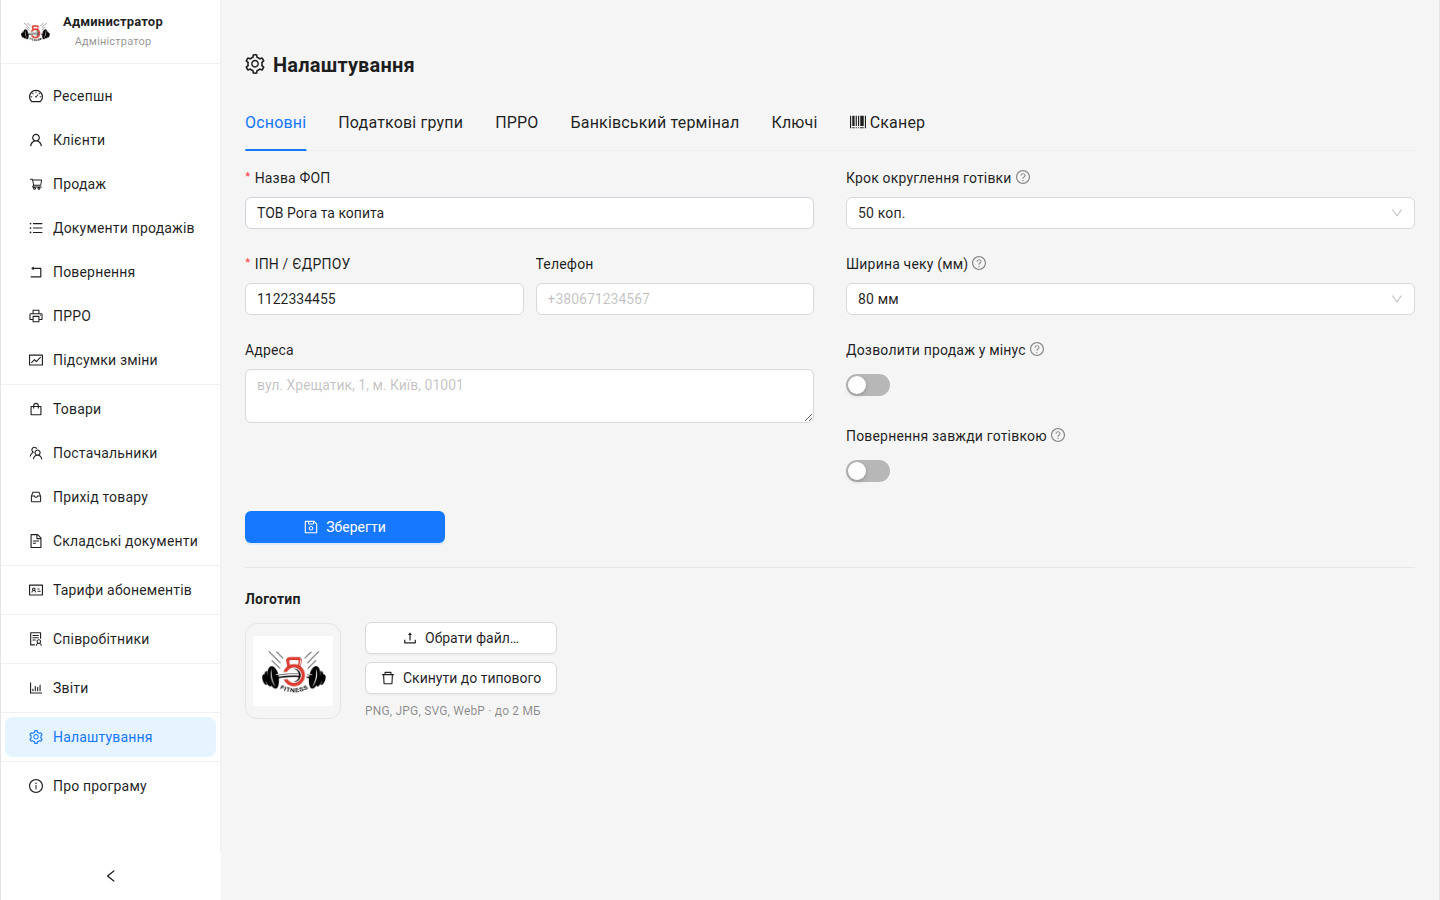
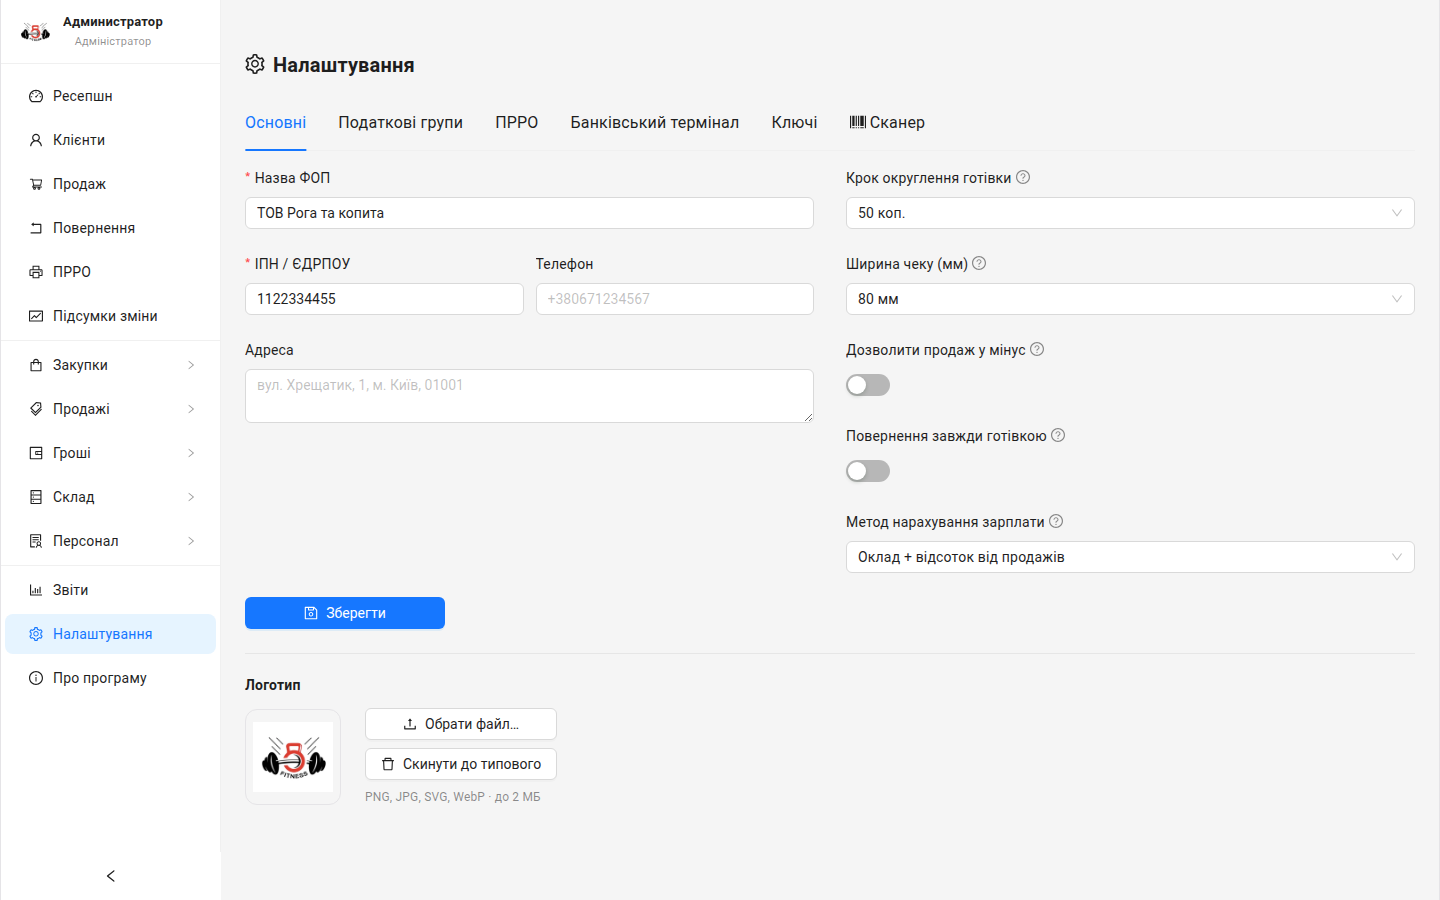
docs: розділ «Розрахунок зарплати» + оновлені скріншоти
Синхронізовано з основним репозиторієм: додано Блок 23 «Розрахунок
зарплати», Налаштування перенумеровано в Блок 24, оновлено зміст,
внутрішні посилання та скріншоти.

diff --git a/index.html b/index.html
@@ -107,7 +107,8 @@
 <li><a href="#блок-20-складські-документи-інвентаризація--списання">Блок 20. Складські документи (інвентаризація / списання)</a></li>
 <li><a href="#блок-21-тарифи-абонементів">Блок 21. Тарифи абонементів</a></li>
 <li><a href="#блок-22-співробітники">Блок 22. Співробітники</a></li>
-<li><a href="#блок-23-налаштування">Блок 23. Налаштування</a></li>
+<li><a href="#блок-23-розрахунок-зарплати">Блок 23. Розрахунок зарплати</a></li>
+<li><a href="#блок-24-налаштування">Блок 24. Налаштування</a></li>
 </ul>
 <p><strong>Довідка</strong></p>
 <ul>
@@ -414,7 +415,7 @@
 <p>Угорі — картка <strong>«Стан ПРРО»</strong>: підключення до каси, чи відкрита зміна, тривалість, фіскальний номер, ФОП.</p>
 <p>Дії (виберіть касу, якщо їх кілька):</p>
 <ul>
-<li><strong>«Відкрити зміну»</strong> — на початку робочого дня, перед фіскальними чеками. При відкритті <strong>автоматично виконується внесення суми</strong>, заданої в налаштуваннях каси (<strong>«Авто-внесення при відкритті зміни»</strong>, розділ <a href="#блок-23-налаштування">«Налаштування» → вкладка «ПРРО»</a>). Якщо поле порожнє — внесення не робиться.</li>
+<li><strong>«Відкрити зміну»</strong> — на початку робочого дня, перед фіскальними чеками. При відкритті <strong>автоматично виконується внесення суми</strong>, заданої в налаштуваннях каси (<strong>«Авто-внесення при відкритті зміни»</strong>, розділ <a href="#блок-24-налаштування">«Налаштування» → вкладка «ПРРО»</a>). Якщо поле порожнє — внесення не робиться.</li>
 <li><strong>«X-звіт»</strong> — проміжний звіт без закриття зміни (перевірка стану каси).</li>
 <li><strong>«Z-звіт / Закрити зміну»</strong> — у кінці дня; закриває зміну, скасувати неможливо. Підтвердіть дію. Якщо в налаштуваннях увімкнено <strong>«Авто-виємка перед закриттям зміни»</strong>, перед закриттям автоматично виконається виємка всієї готівки з ПРРО.</li>
 </ul>
@@ -524,12 +525,67 @@
 <p>Неактивний співробітник не може увійти в систему.</p>
 </blockquote>
 <hr>
-<h2 id="блок-23-налаштування">Блок 23. Налаштування</h2>
+<h2 id="блок-23-розрахунок-зарплати">Блок 23. Розрахунок зарплати</h2>
+<p><strong>Розділ:</strong> «Персонал» → «Розрахунок зарплати» <em>(адміністратор)</em>.</p>
+<p>Модуль рахує зарплату співробітників за обраний період <strong>на сервері</strong> за поточним методом нарахування. Метод — спільний для всього закладу і задається в <a href="#блок-24-налаштування">Налаштуваннях</a>; а конкретні ставки (оклад, відсотки) задаються <strong>індивідуально кожному співробітнику</strong>.</p>
+<p><strong>Методи нарахування:</strong></p>
+<table>
+<thead>
+<tr>
+<th>Метод</th>
+<th>Як рахується</th>
+</tr>
+</thead>
+<tbody><tr>
+<td><strong>Оклад</strong></td>
+<td>Фіксована сума за період.</td>
+</tr>
+<tr>
+<td><strong>Відсоток від продажів</strong></td>
+<td>Відсоток від особистих продажів співробітника за період.</td>
+</tr>
+<tr>
+<td><strong>Відсоток за групами товарів + абонементи</strong></td>
+<td>Свій відсоток за кожною групою товарів плюс окремий відсоток за продані абонементи.</td>
+</tr>
+<tr>
+<td><strong>Оклад + відсоток від продажів</strong></td>
+<td>Фіксований оклад плюс відсоток від особистих продажів.</td>
+</tr>
+</tbody></table>
+<h3 id="вкладка-розрахунок">Вкладка «Розрахунок»</h3>
+<p><img src="screenshots/22-payroll-calc.png" alt="Розрахунок зарплати за період"></p>
+<ul>
+<li>Оберіть <strong>період</strong> (за замовчуванням — з початку місяця до сьогодні). Розрахунок виконується автоматично.</li>
+<li>Праворуч від періоду показано <strong>поточний метод</strong> нарахування.</li>
+<li>Картки згори — <strong>разом до нарахування</strong> за період і <strong>кількість співробітників</strong>.</li>
+<li>Таблиця показує рядок на кожного співробітника; склад колонок залежить від методу (оклад, продажі, відсоток, нараховано тощо), останній рядок — <strong>«Разом»</strong>.</li>
+</ul>
+<h3 id="вкладка-параметри-співробітників">Вкладка «Параметри співробітників»</h3>
+<p><img src="screenshots/23-payroll-params.png" alt="Параметри співробітників"></p>
+<ul>
+<li>Показує ставки кожного співробітника відповідно до поточного методу.</li>
+<li>Синій напис угорі нагадує, який метод діє і що змінити його можна в Налаштуваннях.</li>
+<li>Натисніть <strong>«Змінити»</strong> у рядку співробітника, щоб відкрити панель редагування:</li>
+</ul>
+<p><img src="screenshots/24-payroll-params-edit.png" alt="Редагування параметрів співробітника"></p>
+<p>Поля панелі залежать від методу:</p>
+<ul>
+<li><strong>Оклад (грн за період)</strong> — для методів «Оклад» та «Оклад + відсоток».</li>
+<li><strong>Відсоток від особистих продажів, %</strong> — для методів «Відсоток від продажів» та «Оклад + відсоток».</li>
+<li><strong>Відсоток за абонементи, %</strong> та <strong>ставки за групами товарів</strong> — для методу «Відсоток за групами товарів + абонементи».</li>
+</ul>
+<p>Натисніть <strong>«Зберегти»</strong>, щоб застосувати зміни.</p>
+<blockquote>
+<p>Ставки задаються окремо кожному співробітнику, тому двоє людей на одному методі можуть мати різні оклад і відсотки.</p>
+</blockquote>
+<hr>
+<h2 id="блок-24-налаштування">Блок 24. Налаштування</h2>
 <p><strong>Розділ:</strong> «Налаштування» <em>(адміністратор)</em>.</p>
 <p><img src="screenshots/18-settings.png" alt="Екран «Налаштування»"></p>
 <p>Вкладки:</p>
 <ul>
-<li><strong>Основні</strong> — дані ФОП (назва, ІПН/ЄДРПОУ, телефон, адреса), <strong>крок округлення готівки</strong> (10/50 коп.), <strong>ширина чеку</strong> (58/80 мм), <strong>дозволити продаж у мінус</strong>, <strong>повернення завжди готівкою</strong>, типова податкова група.</li>
+<li><strong>Основні</strong> — дані ФОП (назва, ІПН/ЄДРПОУ, телефон, адреса), <strong>крок округлення готівки</strong> (10/50 коп.), <strong>ширина чеку</strong> (58/80 мм), <strong>дозволити продаж у мінус</strong>, <strong>повернення завжди готівкою</strong>, <strong>метод нарахування зарплати</strong> (спільний для закладу — див. <a href="#блок-23-розрахунок-зарплати">Блок 23. Розрахунок зарплати</a>), типова податкова група.</li>
 <li><strong>Податкові групи</strong> — код, назва, ставка (%), активність.</li>
 <li><strong>ПРРО</strong> — список кас (реєстраторів розрахункових операцій). Тут додають касу, вказують її прив’язку до Вчасно.Каса та поведінку зміни — див. <a href="#налаштування-каси-прро">Налаштування каси ПРРО</a> нижче.</li>
 <li><strong>Банківський термінал</strong> — прив’язка платіжного (еквайрингового) термінала до каси — див. <a href="#налаштування-банківського-термінала">Налаштування банківського термінала</a> нижче.</li>
